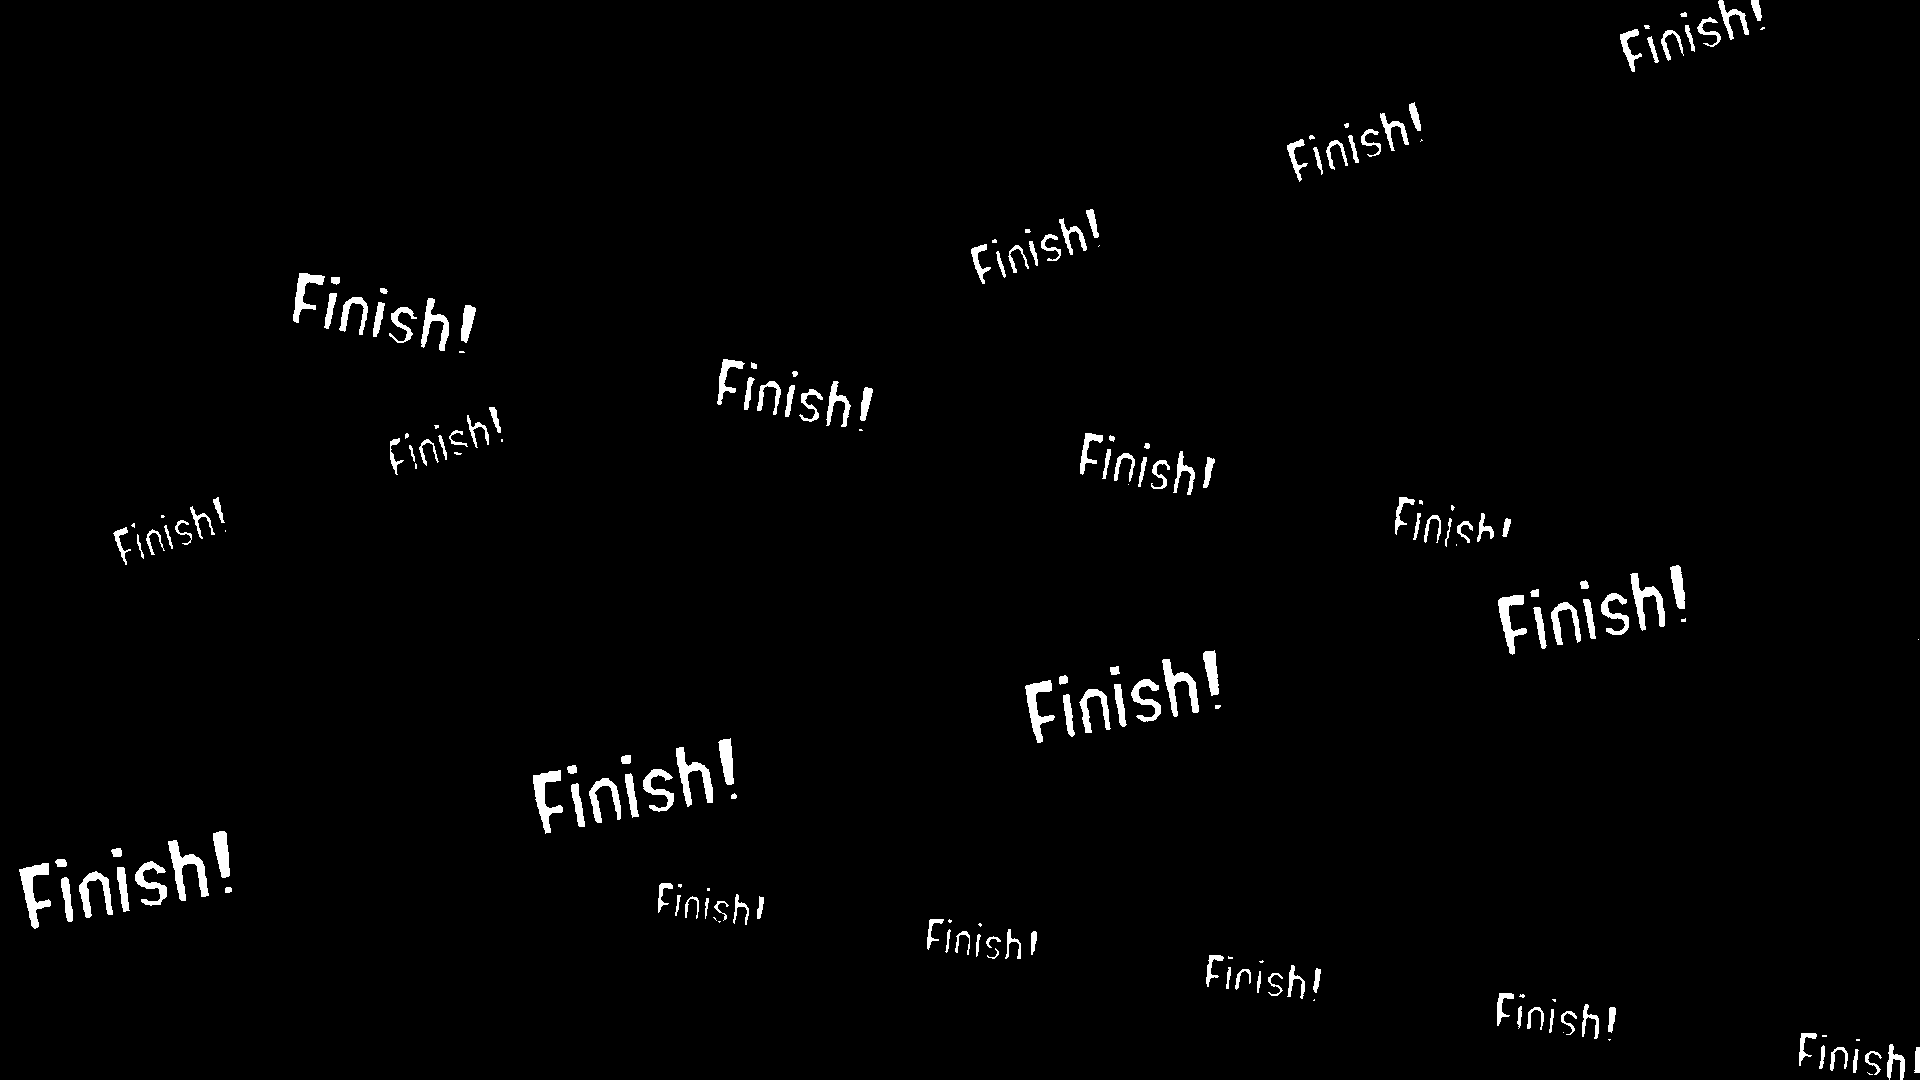
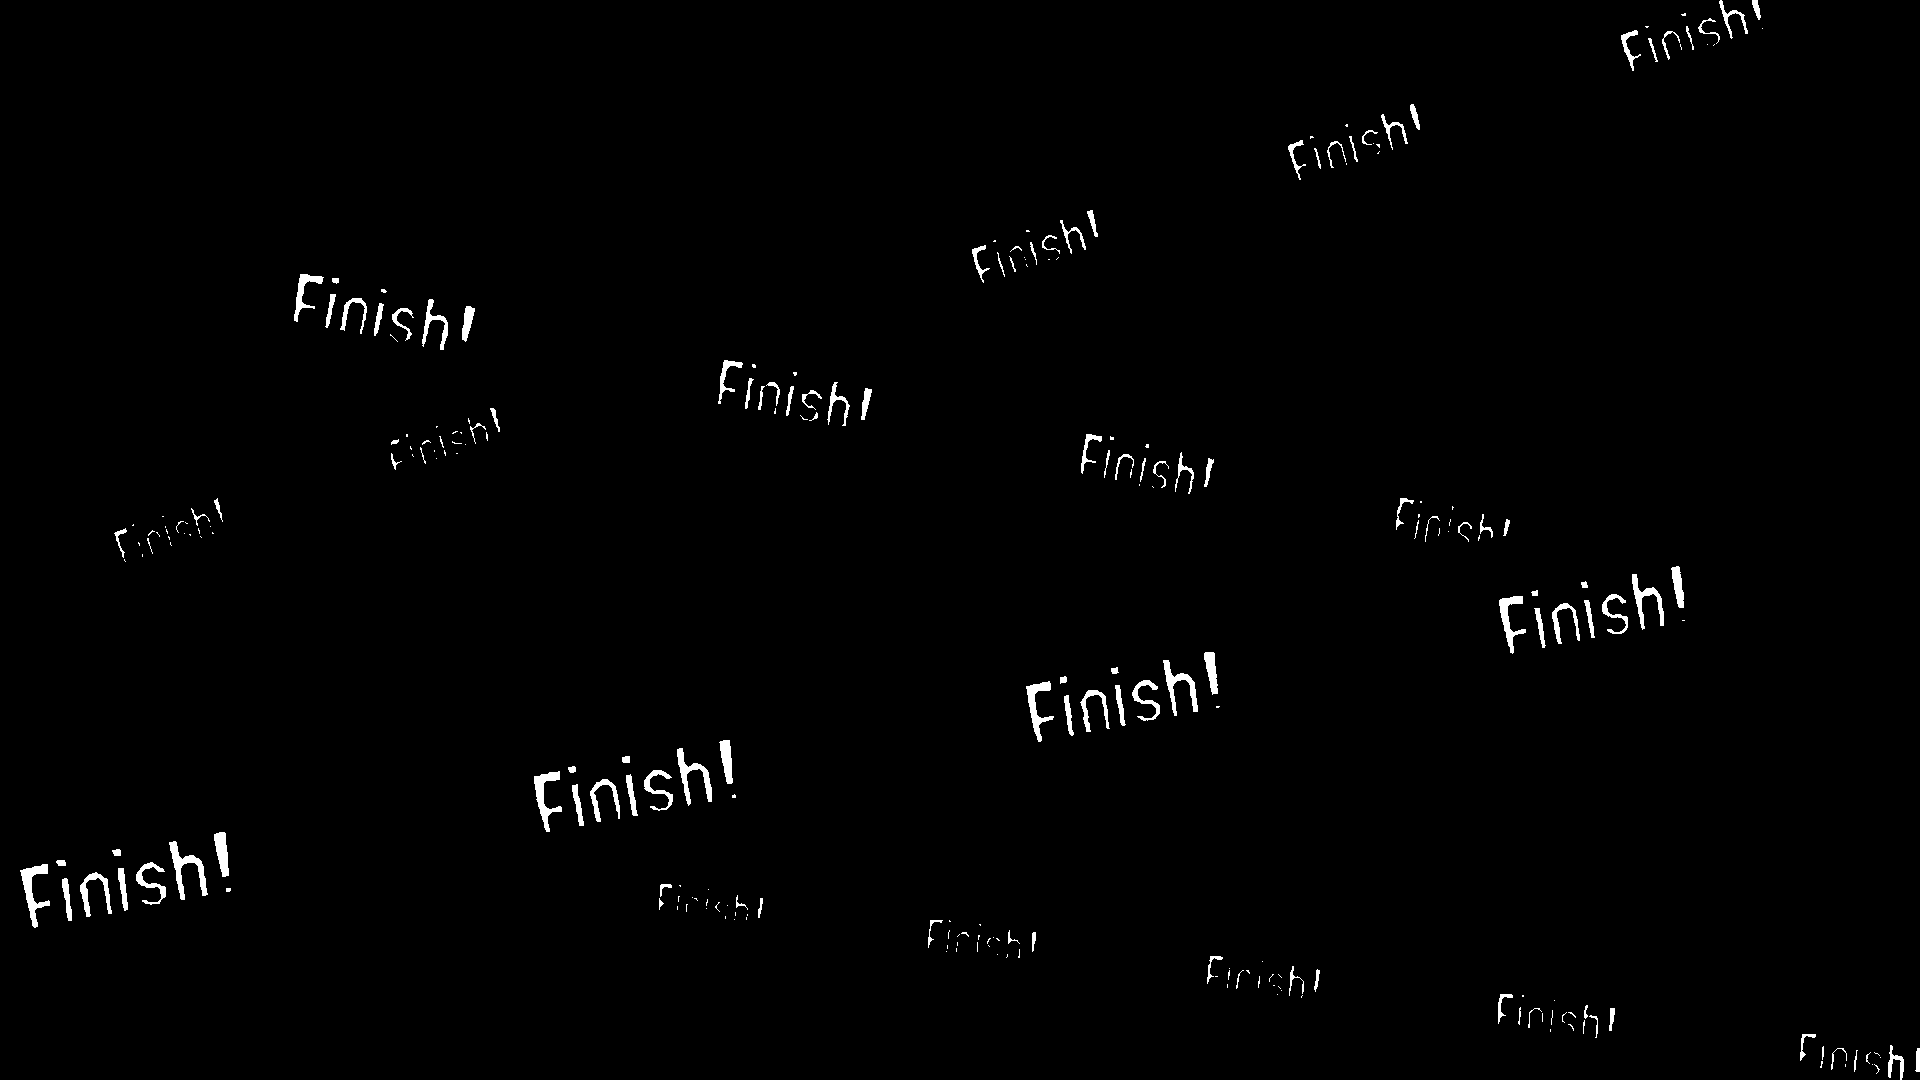
finishの検知精度向上

diff --git a/tests/test_analyzer.py b/tests/test_analyzer.py
@@ -37,6 +37,26 @@ def test_change_schedule(analyzer: Analyzer, load_image: Callable[[str], cv2.typ
 
 
 @pytest.mark.parametrize("filename,expected", [
+    ("finish_1.png", True),
+    ("finish_2.png", True),
+    ("finish_3.png", True),
+    ("finish_4.png", True),
+    ("finish_5.png", True),
+    ("finish_6.png", True),
+    ("finish_7.png", True),
+    ("finish_8.png", True),
+    ("finish_9.png", True),
+    ("finish_10.png", True),
+    ("finish_11.png", False),
+    ("loading_1.png", False)
+])
+def test_battle_finish(analyzer: Analyzer, load_image: Callable[[str], cv2.typing.MatLike], filename: str, expected: bool):
+    image = load_image(filename)
+    result = analyzer.battle_finish(image)
+    assert result == expected
+
+
+@pytest.mark.parametrize("filename,expected", [
     ("result_1.png", (10, 8, 3)),
     ("result_2.png", (0, 1, 0)),
     ("result_3.png", (9, 9, 2)),
